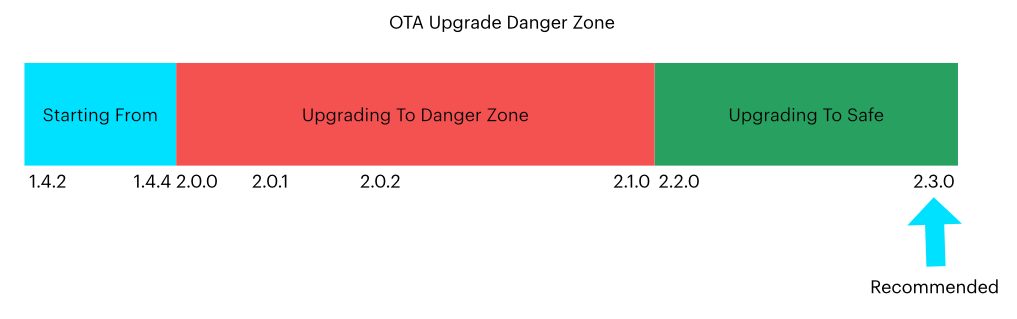
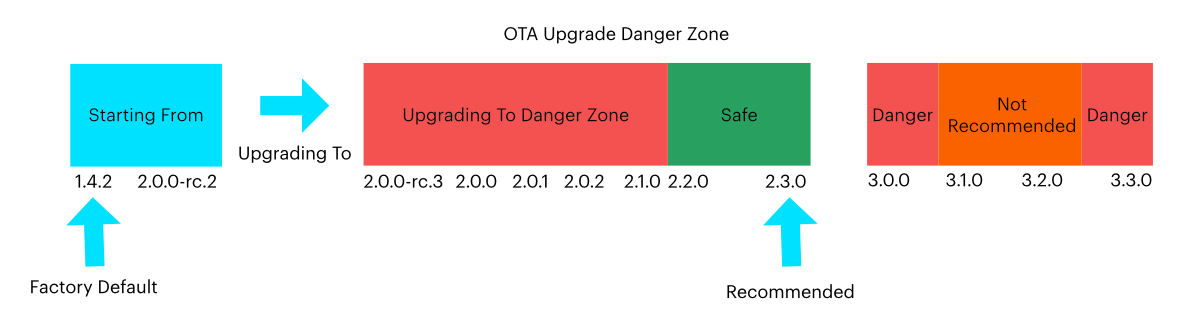
TAN007

diff --git a/src/content/reference/technical-advisory-notices/tan007.md b/src/content/reference/technical-advisory-notices/tan007.md
@@ -7,7 +7,7 @@ description: TAN007 - SARA-R410M-02B-03 OTA Upgrade Issue
 
 # {{title}}
 
-Pre-Release Draft: June 2, 2022 14:11 UTC
+Released: June 3, 2022
 
 The following advisory notice describes a specific issue when OTA upgrading certain E Series devices using the SARA-R410-02B-03 cellular modem between certain versions of Device OS.
 
@@ -15,14 +15,14 @@ The following SKUs are affected:
 
 - E Series LTE (E402)
 
-This only affects devices containing the SARA-R410-02B-03 manufactured after September 2021 that shipped with Device OS 1.4.2. Devices manufactured before that contained the SARA-R410M-02B-01 module and are unaffected. Modules manufactured after June 2022 will ship with Device OS 2.3.0 and will be unaffected.
+This only affects devices containing the SARA-R410-02B-03 cellular modem manufactured after September 2021 that shipped with Device OS 1.4.2. Devices manufactured before that contained the SARA-R410M-02B-01 modem and are unaffected. E402 modules manufactured after June 2022 will ship with Device OS 2.2.0 and will be unaffected.
 
 ![Manufacture Date](/assets/images/support/manufacture-date.png)
 
-Furthermore, this only affects devices that are upgrading from 1.4.2 or 1.4.4 to the following Device OS versions OTA:
+Furthermore, this only affects devices that are upgrading from 1.4.2 - 1.5.4 to the following Device OS versions OTA:
 
-- 2.0.0, 2.0.1, 2.0.2
-- 2.1.0
+- 2.0.0, 2.0.1, 2.0.2, 2.1.0
+- 3.0.0, 3.3.0
 
 ![Upgrade Danger](/assets/images/support/ota-upgrade.png)
 
@@ -34,7 +34,9 @@ The affected E Series LTE E402 models have the following serial numbers:
 
 The serial number ("SN") can be found on the sticker on the module.
 
-It does not affect the  EtherSIM E Series LTE (E404) or other SKUs.
+It does not affect the EtherSIM E Series LTE (E404) or other SKUs.
+
+**If you are already targeting Device OS 2.2.0 or later, no action is required.**
 
 ### Scenarios where this can occur
 
@@ -44,11 +46,19 @@ If you then upgrade the product firmware on your fleet to a version that targets
 
 **The solution when upgrading is to go from 1.4.2 to 2.3.0, and not a lower 2.x version.**
 
+The exact range of affected Device OS versions is:
+
+- Upgrading from any Device OS version from 1.4.2 to 2.0.0-rc.2 (inclusive). This includes 1.4.2, 1.4.3, 1.4.4, 1.5.0, 1.5.1, and 1.5.2.
+- Upgrading to 2.0.0-rc.3 to 2.1.0 (inclusive). This includes 2.0.0, 2.0.1, 2.0.2, and 2.1.0.
+- Or upgrading to 3.0.0 or 3.3.0. The Device OS 3.x development line is not recommended for the E402. It does not have fixes for Gen 2 platforms such as the E402.
+
+
 ### Symptoms 
 
 - The device will be flashed the user firmware binary, and reboot normally
 - The device will receive the first of the three system parts, then reboot, as it normally would
 - The device will now be stuck in blinking green and be unable to receive the additional system parts to function normally
+- Your user firmware will not run while in this state, as the device is in safe mode
 
 At this point, the device will need to be flashed by USB, as it will not be able to connect to cellular, and thus cannot be upgraded to 2.2.0 or later OTA.
 
@@ -57,8 +67,6 @@ At this point, the device will need to be flashed by USB, as it will not be able
 
 The recommended mitigation is to **target your product firmware to Device OS 2.3.0**, the latest 2.x LTS release. This will prevent the OTA upgrade issue from occurring and will also have the greatest compatibility in the future. 
 
-If you are currently on 2.2.0 you do not immediately need to upgrade, however new devices from the factory will come with 2.3.0 instead of 1.4.2 in the future.
-
 ### Not affected
 
 The following scenarios are not affected by this issue:
@@ -66,7 +74,7 @@ The following scenarios are not affected by this issue:
 - SKUs other than the E Series LTE (E402) are not affected
 - The EtherSIM E Series LTE (E404) is not affected
 - Fleets only containing E Series LTE (E402) devices manufactured before September 2021 are not affected
-- Fleets that are already using Device OS 2.2.0 or later are not affected
-- Devices upgraded by USB are not affected (but we still recommend using Device OS 2.3.0)
+- Fleets that are already using Device OS 2.2.0 or later are not affected and you do not need to upgrade now
+- Devices upgraded by USB or SWD/JTAG are not affected (but we still recommend using Device OS 2.3.0)
 
 

diff --git a/src/content/reference/technical-advisory-notices/technical-advisory-notices.md b/src/content/reference/technical-advisory-notices/technical-advisory-notices.md
@@ -32,7 +32,6 @@ Technical Advisory Notices are issued for hardware issues and typically include:
 - [TAN001 - SARA-R410M "124-day"](/reference/technical-advisory-notices/tan001-sara-r410m-124-day/) Power-off procedure recommendations for Particle devices running u-blox SARA-R410M-02B modules
 - [TAN004 - Power-off Recommendations for SARA R410M-Equipped Devices](/reference/technical-advisory-notices/tan004-power-off-recommendations-for-sara-r410m-equipped-devices/)
 - [TAN005 - SARA-R410-02B-03](/reference/technical-advisory-notices/tan005-sara-r410-02b-03/)
-- [TAN007 - SARA-R410M-02B-03 OTA Upgrade Issue](/reference/technical-advisory-notices/tan007/)
 
 ## Numerical List
 
@@ -42,4 +41,3 @@ Technical Advisory Notices are issued for hardware issues and typically include:
 - [TAN004 - Power-off Recommendations for SARA R410M-Equipped Devices](/reference/technical-advisory-notices/tan004-power-off-recommendations-for-sara-r410m-equipped-devices/)
 - [TAN005 - SARA-R410-02B-03](/reference/technical-advisory-notices/tan005-sara-r410-02b-03/)
 - [TAN006 - Tracker SoM GNSS Interface](/reference/technical-advisory-notices/tan006-tracker-som-gnss-interface/)
-- [TAN007 - SARA-R410M-02B-03 OTA Upgrade Issue](/reference/technical-advisory-notices/tan007/)
